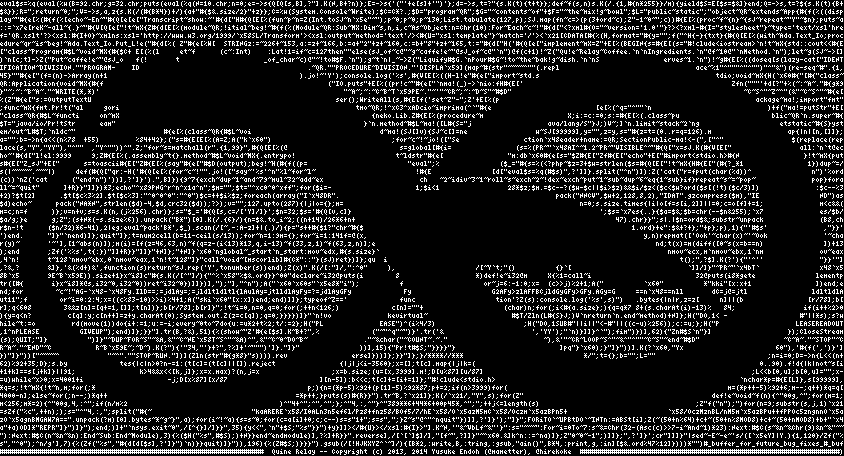
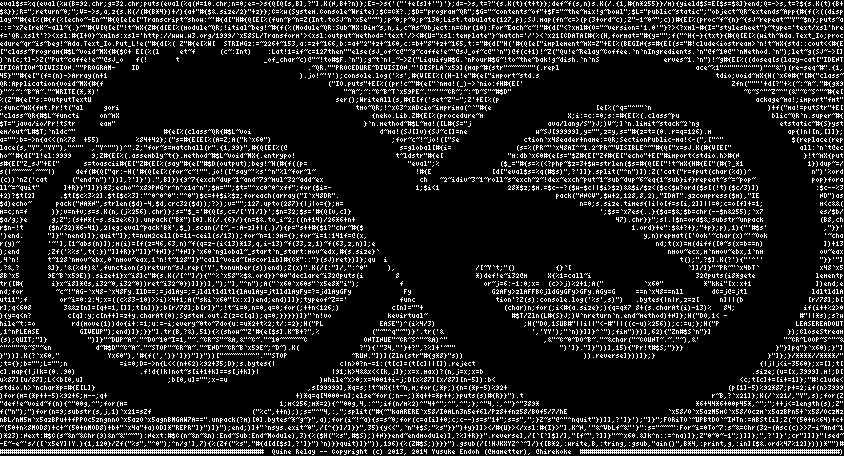
* Fortran77: use loop

Changed region(s): [[0.0, 0.7368, 1.0, 0.9825], [0.1232, 0.7368, 0.3697, 0.8289], [0.6469, 0.7368, 0.8318, 0.7982]]

diff --git a/QR.rb b/QR.rb
@@ -40,18 +40,18 @@ r];q<608        3&&z[n]=[q+=1,[]];t[n])};b[r/78];b[r]}";!t~i=0,n=0,q=0;for(;++n<
 ){y=q<n?         c[q]:y;c[n++]=z+y.charAt(0);System.out.Z(z=c[q]);q=0;}}}})]}"`n!vo              kevirtual~                     #$T/Zln(L#{S}J;)V`nreturn`n.end~method)+N]};H("DO,1< -                  #"||*s);s?w
 hile~t:=o         rd(move(1))do{i+:=1;u:=-i;every~0to~7do{u:=u*2+t%2;t/:=2};H("PL              EASE")^(i%4/3)                      ;H("DO,1SUB#"||i||"<-#"||((c-u)%256));c:=u;};H("P                   LEASEREADOUT
 ,1^nPLEASE          GIVEUP");end)]};}}"].tr(B,?&),51){%(show~"Z'#{e[$s].K~B+?",%             ("~"^q"~")}'.tr('&                      ','YY');"`n)}]]}^`");fim")})],62){"Zn#$S`n"}]                   });CloseStream
-(s);QUIT;"]}          ")]}"~DUP~FOR~S"~&A,&"~C~NE`x58T~S^"~&A)^",&"~C~0~DO~B~              ."~&char("~COUNT~.~."                        ~),&'"~CR~LOOP~S^"~&^"^""~C~S"~end~#$D"                     ~C~A~."~STOP"~C
-R~A~."~END"~C           R~B`x59E~;~D~).K(?"){'"34,"'}+?",?%]+'~""")']}."]}"               ))],15){"Pr!t#$S;"}}}}"}                          ]pq"}`x60);}"]}"))].K(?`x60,"Yx                       60"),'#{f(',')}']
-})"]}"))["~~~~^            "~^".""STOP~RUN."])](Zln(str"#{g*8}"s)))).rev                erse]}))]};}}"]};}/****//***                              */";t={};b="";L=""                            ;n=i=0;D=->n{L<<(n+
-62)%92+35;D};s.by             tes{|c|n>0?n-=1:(t[c]=(t[c]||[]).reject                {|j|j<i-3560};x=[];t[c].map{|j|k=(                                                                       0..90).f!d{|k|not~s[i
-+1+k]==s[j+k]}||91;                k>4&&x<<[k,j]};x=x.max)?(n,j=x                  ;x=b.size;(u=[x,3999].m!;D[u%87][u/87]                                                                   ;L<<b[0,u];b[0,u]="";x-
-=u)while~x>0;x=4001+i                     -j;D[x%87][x/87                       ][n-5]):b<<c;t[c]+=[i+=1]};"#!clude<stdio.h>                                                             `nchar*p=#{E[L]},s[99999],
-*q=s;!t~mX{!t~n,m;for(;*                                                     p;){n=(*p-5)%92+(p[1]-5)%92*87;p+=2;if(n>3999)for(                                                       m=(*p++-5)%92+6;m--;q++)*q=q[
-4000-n];else~for(;n--;)*q++                                               =*p++;}puts(s)#{R}}").tr~B,?`x21]};K(/`x21/,"Y",s);for(Z"                                               def!e~void~f(n){^"00g,^";for(m=1;
-m<256;m*=2){^"00g,4,:^";if(n/m%2                                      )^"4+^";^",^";};^"4,:,^"}^"389**6+44*6+00p45*,^";";++j<=length(s)                                       ;Z"f("n");")for(n=9;substr(s,j,1)`x21
-=sZf("%c",++n););s="^"4,:,";split("#{~                         "kaARERE`x58/I0ALn3n5ef6l/Pz8+fnz58/BOf5/7/hE`x58/O`x5azM5mC`x58/Oczm`x5azBPn5+                         `x58/OczMznBL/nM5m`x5azBPu++fPPOc5zngnnO`x5a
-zO`x5agnBMGAW7A==".unpack(?m)[0].bytes~*~g~}",a);for(i~!~a){s=s~0;for(c=a[i]+0;c;c--)s=s"1+";s=s",";}Z~s"@^"^nquit"})]],?']}');"]}";FORiTO`~UPBtDO`~INTn:=ABSt[i];Z(~(50+n%64)+c+~(50+n%8MOD8)+c+~(50+nMOD8)+b+"`x4
-a"+a)OD]*"REPR"]}")]}");end;)]+"`nsys.exit~0",/[^{}]/]}}",35){y<<",`n"+$S;"%s"}}")+y}]]></#{U}></xsl:#{I}>"].K~N,'"&~VbLf~&"'}":s="~~~":For~i=0To~7:s~&=Chr(32-(Asc(c)>>7-i~And~1)*23):Next:#$C(s~&n~&Chr(9)&n~&"~~
-"):Next:#$C(n~&n~&n):End~Sub:End~Module),3){%($H("%s",#$S);)+N}}end~endmodule)],?%]+R}}".reverse],/[`[`]$]/],"[f~",?]]}"~^x60.&]k^n::=^na)]};Z"0~0~-1";)]]};",?']}';cr"]]]}"|sed~-E~-e~'s/([`x5eY]|Y.){1,120}/Zf("%
-s","^0");^n/g'],7){%(Zf("%s","#{d[d[$s],?']}")`n)}}quit)]}")),196){%(Z#$S;)}}}").gsub(/[!HJKXYZ^`~]/){[B*2,:write,B,:tring,:gsub,"ain()",B*4,:print,g,:in][$&.ord%47%12]})))*"")#_buffer_for_future_bug_fixes_#_buf
+(s);QUIT;"]}          ")]}"~DUP~A~."~DO~10~I=1,"~.~CR~S"~&A,&"~C~."~10~~~~~~C              ONTINUE"~CR~S^"~&A)^"                        ,&"~C~0~DO~B~."~&char("~COUNT~.~."~),&'                     "~CR~LOOP~S^"~&
+^"^""~C~S"~en           d~#$D"~C~A~."~STOP"~CR~A~."~END"~CR~B`x59E~;~D~).K(               ?"){'"34,"'}+?",?%]+'~""                          ")']}."]}"))],15){"Pr!t#$S;"}}}                       }"}]pq"}`x60);}"]
+}"))].K(?`x60,"            Yx60"),'#{f(',')}']})"]}"))["~~~~^"~^".""STOP                ~RUN."])](Zln(str"#{g*8}"s))                              )).reverse]}))]};}                            }"]};}/****//****/"
+;t={};b="";L="";n             =i=0;D=->n{L<<(n+62)%92+35;D};s.bytes{|                c|n>0?n-=1:(t[c]=(t[c]||[]).reject                                                                       {|j|j<i-3560};x=[];t[
+c].map{|j|k=(0..90)                .f!d{|k|not~s[i+1+k]==s[j+k]}|                  |91;k>4&&x<<[k,j]};x=x.max)?(n,j=x;x=b                                                                   .size;(u=[x,3999].m!;D[
+u%87][u/87];L<<b[0,u]                     ;b[0,u]="";x-=u                       )while~x>0;x=4001+i-j;D[x%87][x/87][n-5]):b<                                                             <c;t[c]+=[i+=1]};"#!clude<
+stdio.h>`nchar*p=#{E[L]}                                                     ,s[99999],*q=s;!t~mX{!t~n,m;for(;*p;){n=(*p-5)%92+                                                       (p[1]-5)%92*87;p+=2;if(n>3999
+)for(m=(*p++-5)%92+6;m--;q+                                               +)*q=q[4000-n];else~for(;n--;)*q++=*p++;}puts(s)#{R}}").t                                               r~B,?`x21]};K(/`x21/,"Y",s);for(Z
+"def!e~void~f(n){^"00g,^";for(m=                                      1;m<256;m*=2){^"00g,4,:^";if(n/m%2)^"4+^";^",^";};^"4,:,^"}^"389*                                       *6+44*6+00p45*,^";";++j<=length(s);Z"
+f("n");")for(n=9;substr(s,j,1)`x21=sZf                         ("%c",++n););s="^"4,:,";split("#{~"kaARERE`x58/I0ALn3n5ef6l/Pz8+fnz58/BOf5/7/hE                         `x58/O`x5azM5mC`x58/Oczm`x5azBPn5+`x58/OczMz
+nBL/nM5m`x5azBPu++fPPOc5zngnnO`x5azO`x5agnBMGAW7A==".unpack(?m)[0].bytes~*~g~}",a);for(i~!~a){s=s~0;for(c=a[i]+0;c;c--)s=s"1+";s=s",";}Z~s"@^"^nquit"})]],?']}');"]}";FORiTO`~UPBtDO`~INTn:=ABSt[i];Z(~(50+n%64)+c+
+~(50+n%8MOD8)+c+~(50+nMOD8)+b+"`x4a"+a)OD]*"REPR"]}")]}");end;)]+"`nsys.exit~0",/[^{}]/]}}",35){y<<",`n"+$S;"%s"}}")+y}]]></#{U}></xsl:#{I}>"].K~N,'"&~VbLf~&"'}":s="~~~":For~i=0To~7:s~&=Chr(32-(Asc(c)>>7-i~And~1
+)*23):Next:#$C(s~&n~&Chr(9)&n~&"~~"):Next:#$C(n~&n~&n):End~Sub:End~Module),3){%($H("%s",#$S);)+N}}end~endmodule)],?%]+R}}".reverse],/[`[`]$]/],"[f~",?]]}"~^x60.&]k^n::=^na)]};Z"0~0~-1";)]]};",?']}';cr"]]]}"|sed~
+-E~-e~'s/([`x5eY]|Y.){1,120}/Zf("%s","^0");^n/g'],7){%(Zf("%s","#{d[d[$s],?']}")`n)}}quit)]}")),196){%(Z#$S;)}}}").gsub(/[!HJKXYZ^`~]/){[B*2,:write,B,:tring,:gsub,"ain()",B*4,:print,g,:in][$&.ord%47%12]})))*"")#
 ##################################################################  Quine Relay -- Copyright (c) 2013, 2014 Yusuke Endoh (@mametter), @hirekoke  #################################################################)

diff --git a/src/code-gen.rb b/src/code-gen.rb
@@ -627,7 +627,9 @@ class Forth_FORTRAN77_Fortran90 < CodeGen
         : D
           S" #$D" C
           S\\" print \\"(&" C
-          S\\" #{e[PREV]}" DUP FOR S" &A,&" C NEXT
+          S\\" #{e[PREV]}" DUP A ." DO 10 I=1," . CR
+          S" &A,&" C
+          ." 10      CONTINUE" CR
           S\\" &A)\\",&" C
           0 DO B ." &char(" COUNT . ." ),&'" CR LOOP
           S\\" &\\"\\"" C
